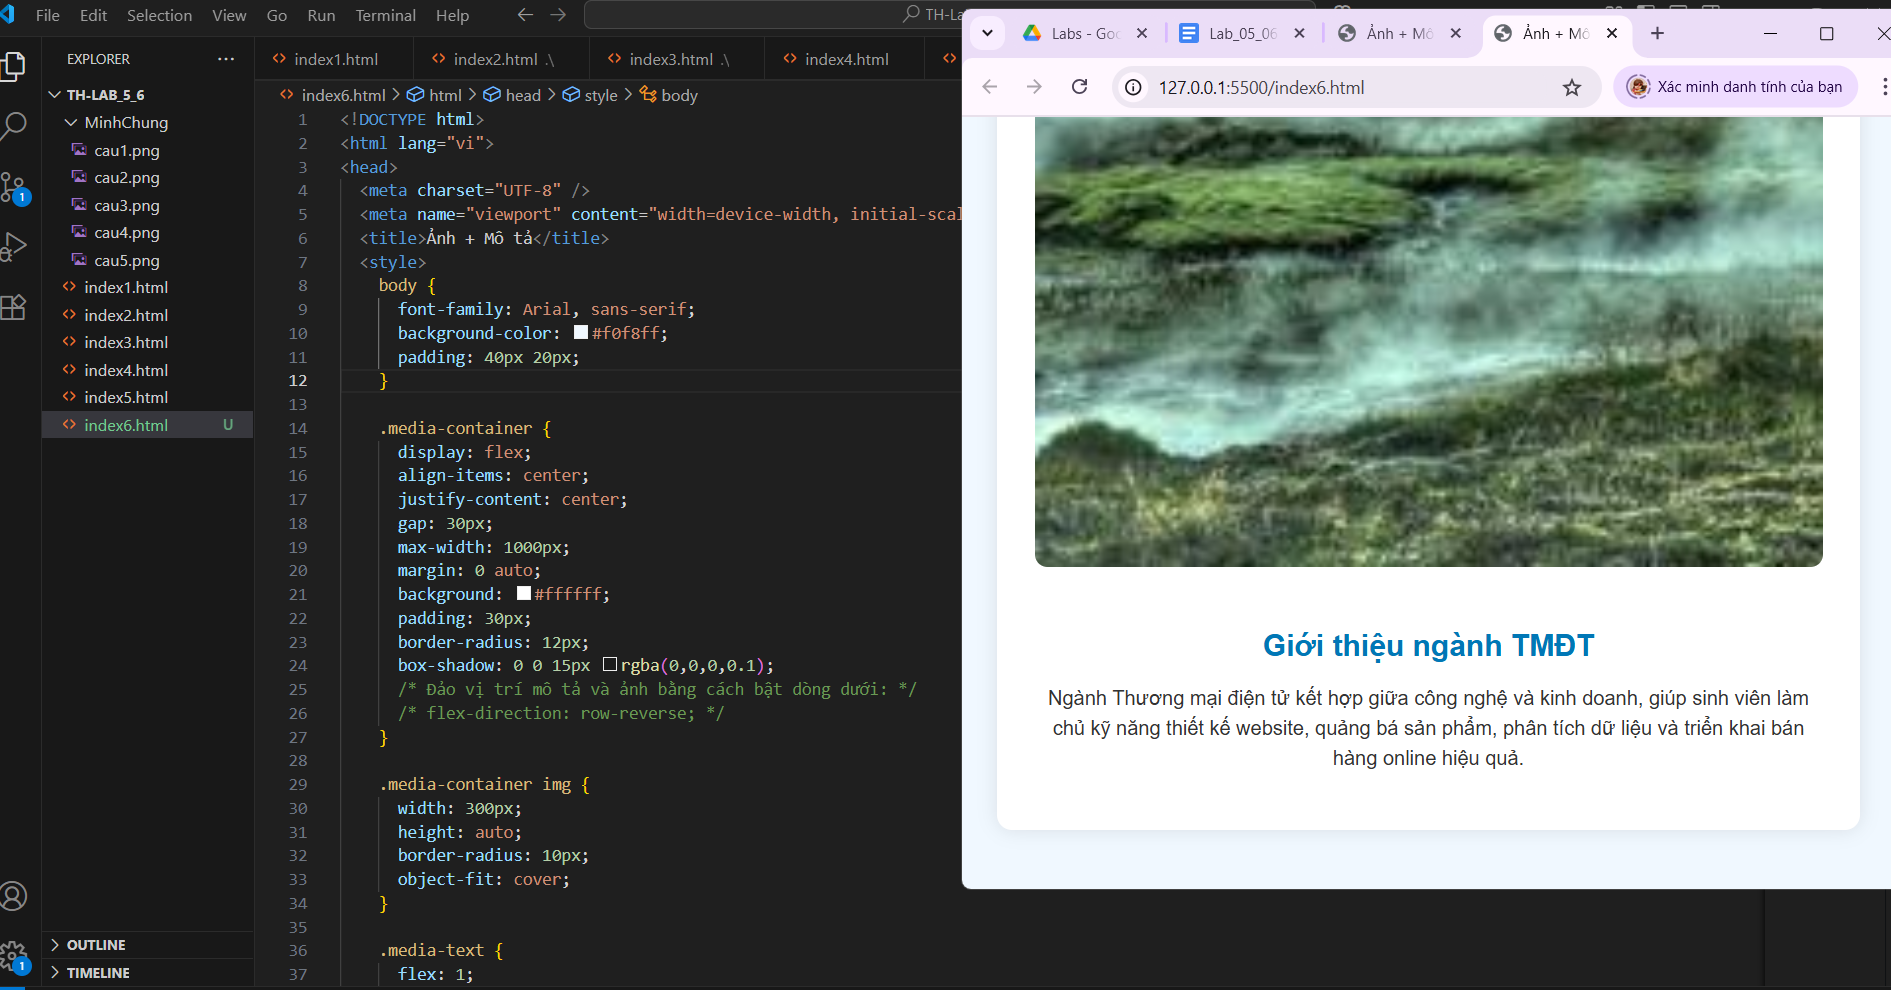
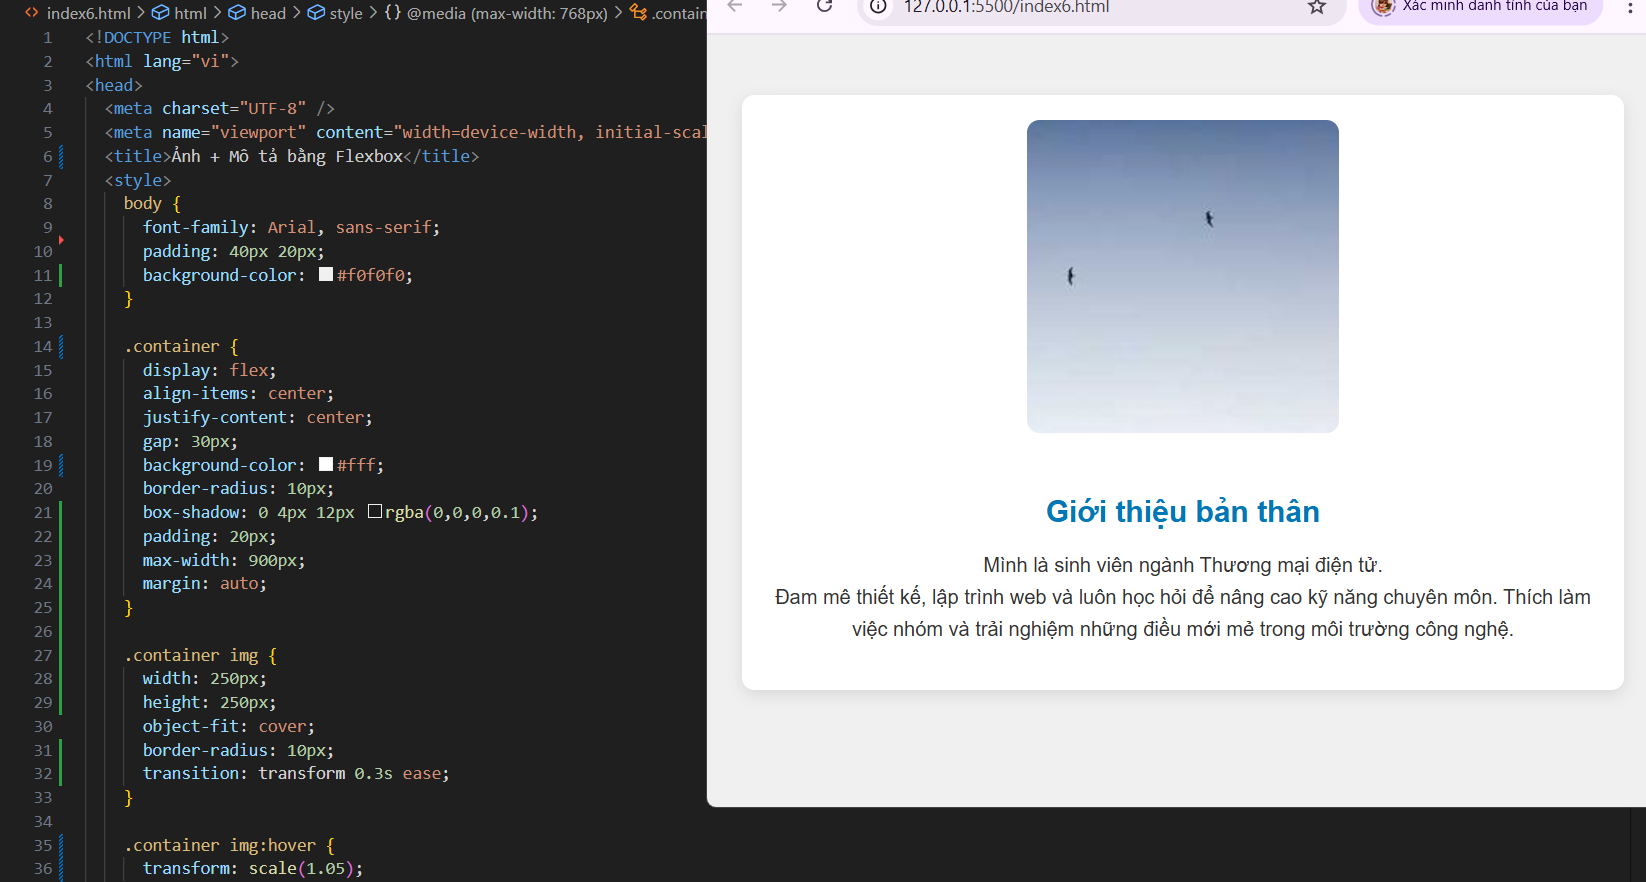
add file index6 + MC

diff --git a/index6.html b/index6.html
@@ -3,72 +3,79 @@
 <head>
   <meta charset="UTF-8" />
   <meta name="viewport" content="width=device-width, initial-scale=1.0"/>
-  <title>Ảnh + Mô tả</title>
+  <title>Ảnh + Mô tả bằng Flexbox</title>
   <style>
     body {
       font-family: Arial, sans-serif;
-      background-color: #f0f8ff;
       padding: 40px 20px;
+      background-color: #f0f0f0;
     }
 
-    .media-container {
+    .container {
       display: flex;
       align-items: center;
       justify-content: center;
       gap: 30px;
-      max-width: 1000px;
-      margin: 0 auto;
-      background: #ffffff;
-      padding: 30px;
-      border-radius: 12px;
-      box-shadow: 0 0 15px rgba(0,0,0,0.1);
-      /* Đảo vị trí mô tả và ảnh bằng cách bật dòng dưới: */
-      /* flex-direction: row-reverse; */
-    }
-
-    .media-container img {
-      width: 300px;
-      height: auto;
+      background-color: #fff;
       border-radius: 10px;
-      object-fit: cover;
+      box-shadow: 0 4px 12px rgba(0,0,0,0.1);
+      padding: 20px;
+      max-width: 900px;
+      margin: auto;
     }
 
-    .media-text {
+    .container img {
+      width: 250px;
+      height: 250px;
+      object-fit: cover;
+      border-radius: 10px;
+      transition: transform 0.3s ease;
+    }
+
+    .container img:hover {
+      transform: scale(1.05);
+    }
+
+    .content {
       flex: 1;
     }
 
-    .media-text h2 {
+    .content h2 {
       color: #0077b6;
       margin-bottom: 10px;
+      transition: color 0.3s;
     }
 
-    .media-text p {
-      font-size: 16px;
-      line-height: 1.5;
+    .content h2:hover {
+      color: #023e8a;
+    }
+
+    .content p {
       color: #333;
+      line-height: 1.6;
     }
 
     @media (max-width: 768px) {
-      .media-container {
+      .container {
         flex-direction: column;
         text-align: center;
-      }
-
-      .media-container img {
-        width: 100%;
       }
     }
   </style>
 </head>
 <body>
 
-  <section class="media-container">
-    <img src="https://picsum.photos/200" alt="Ảnh minh họa">
-    <div class="media-text">
-      <h2>Giới thiệu ngành TMĐT</h2>
-      <p>Ngành Thương mại điện tử kết hợp giữa công nghệ và kinh doanh, giúp sinh viên làm chủ kỹ năng thiết kế website, quảng bá sản phẩm, phân tích dữ liệu và triển khai bán hàng online hiệu quả.</p>
+  <div class="container">
+    <img src="https://picsum.photos/200/300" alt="Ảnh minh hoạ">
+    <div class="content">
+      <h2>Giới thiệu bản thân</h2>
+      <p>
+        Mình là sinh viên ngành Thương mại điện tử. <br>
+        Đam mê thiết kế, lập trình web và luôn học hỏi để nâng cao kỹ năng chuyên môn. 
+        Thích làm việc nhóm và trải nghiệm những điều mới mẻ trong môi trường công nghệ.
+      </p>
     </div>
-  </section>
+  </div>
 
 </body>
 </html>
